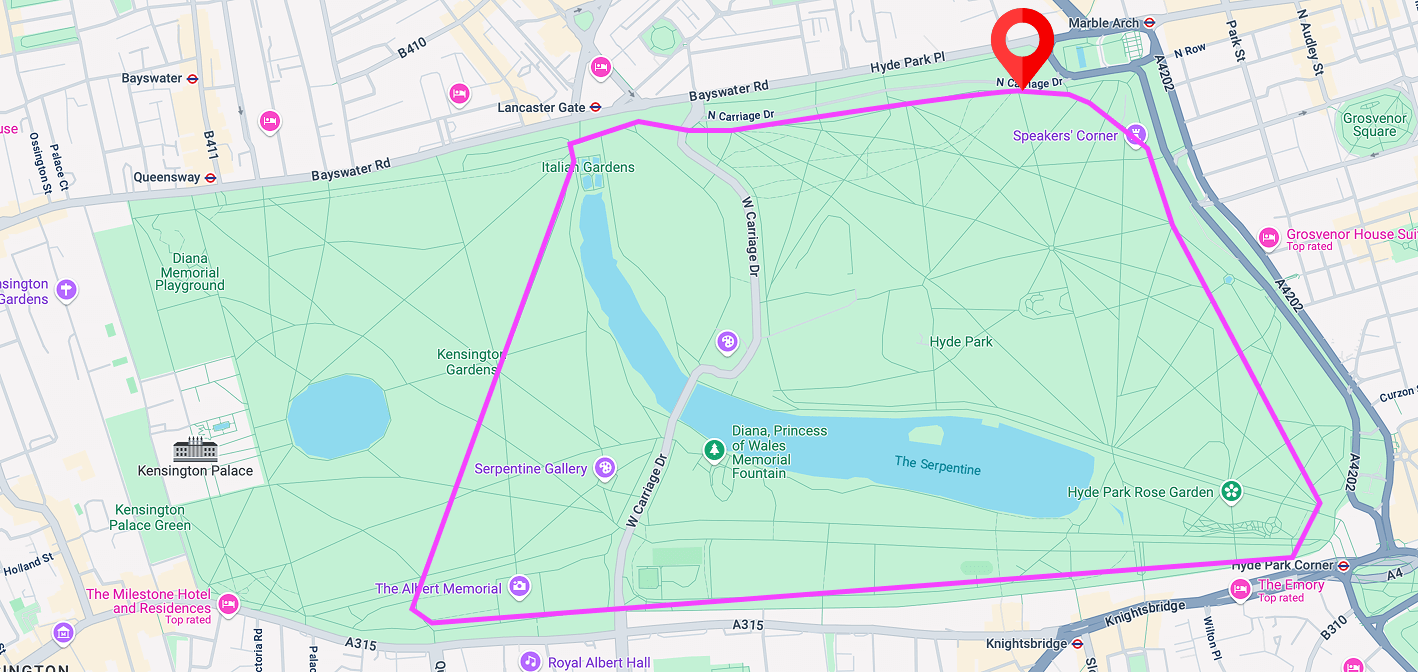
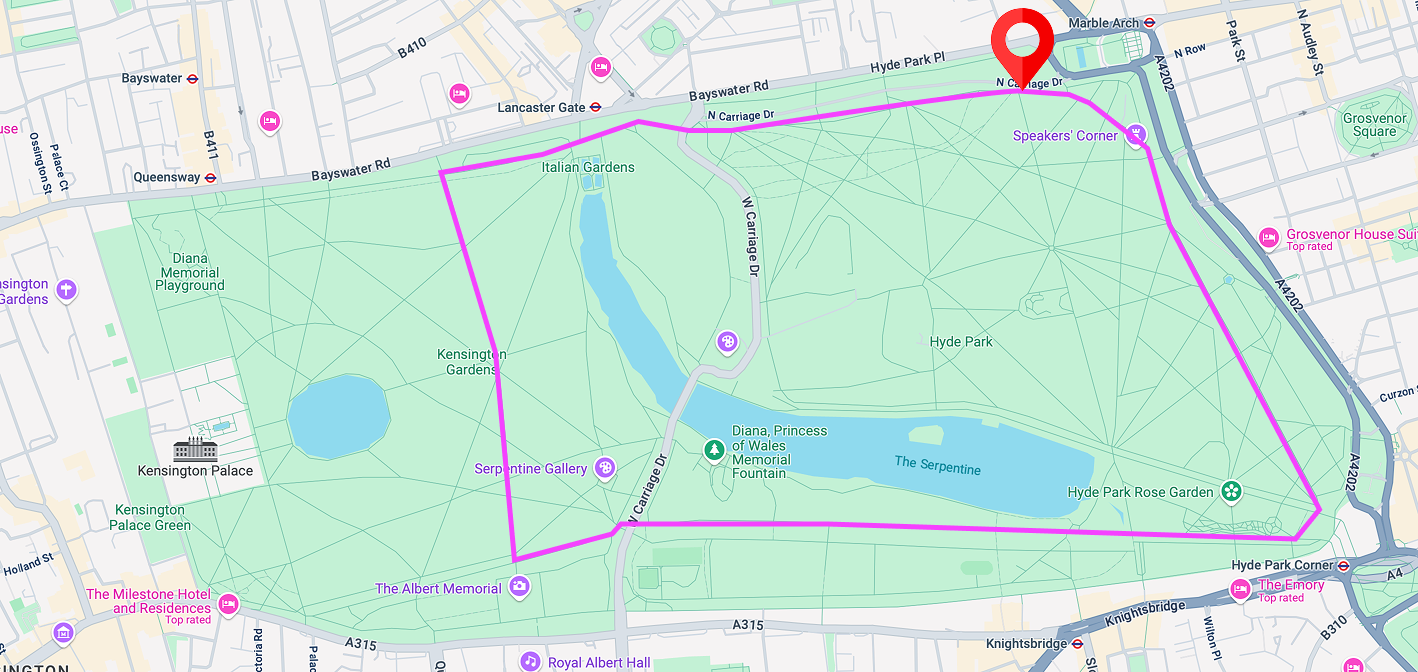
update london route

diff --git a/content/route.md b/content/route.md
@@ -1,0 +1,5 @@
++++
+date = '2025-09-08T07:16:24+01:00'
+draft = true
+title = 'Route'
++++
